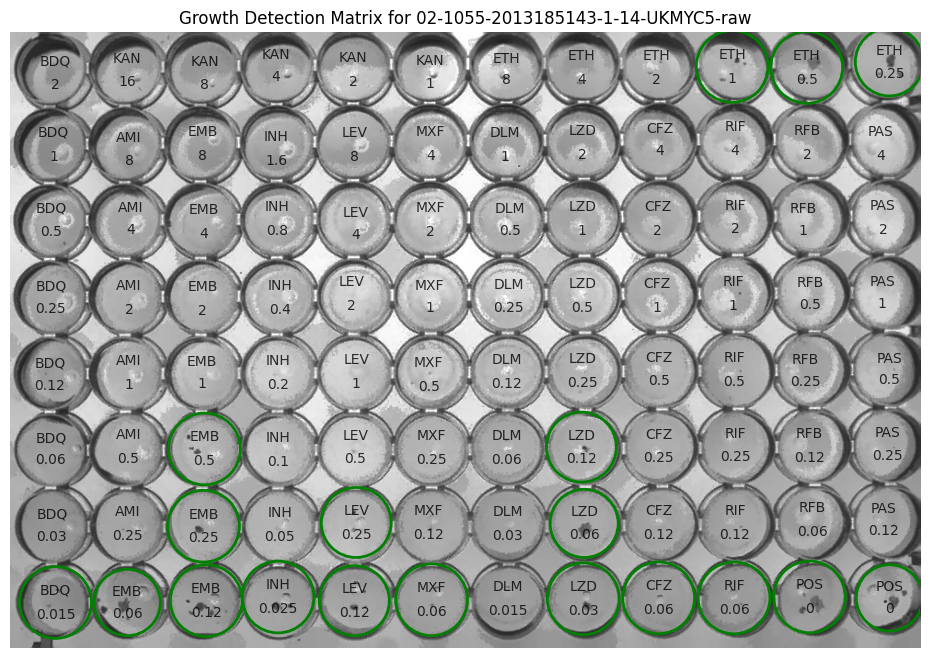
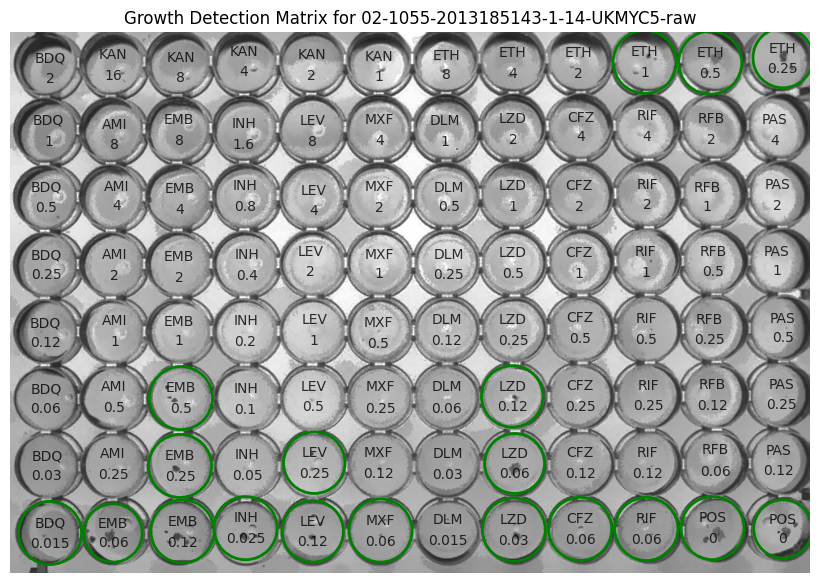
update analysis

diff --git a/tmas/src/analysis.py b/tmas/src/analysis.py
@@ -90,7 +90,7 @@ def visualize_growth_matrix(image_name: str,
         img = cv2.cvtColor(img, cv2.COLOR_BGR2RGB)
 
     # Create a figure and axis for plotting
-    fig, ax = plt.subplots(figsize=(12, 8))
+    fig, ax = plt.subplots(figsize=(8, 6))
     ax.imshow(img)
 
     # Identify wells on the plate
@@ -116,6 +116,7 @@ def visualize_growth_matrix(image_name: str,
             # Add drug name and concentration text annotations
             ax.text(well_x, well_y - well_radii[row, col] * 0.3, drug, ha='center', va='center', fontsize=10, color='black', alpha=0.8)
             ax.text(well_x, well_y + well_radii[row, col] * 0.3, conc, ha='center', va='center', fontsize=10, color='black', alpha=0.8)
+    plt.subplots_adjust(left=0, right=1, top=1, bottom=0)  # Adjust these values to reduce padding
 
     # Remove axis ticks and labels
     ax.set_xticks([])
